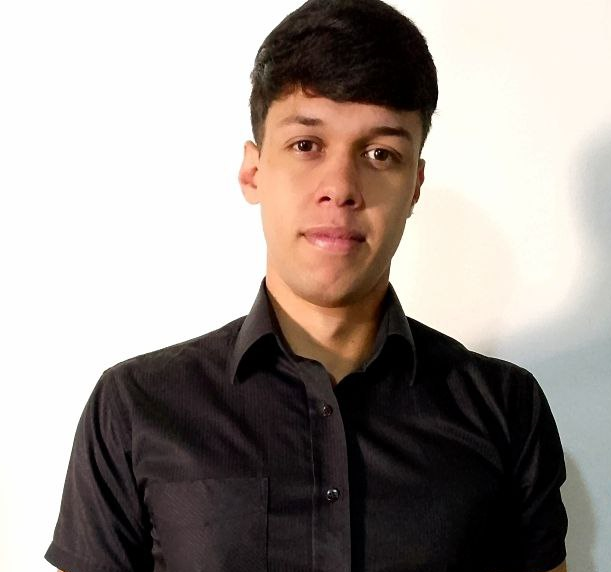
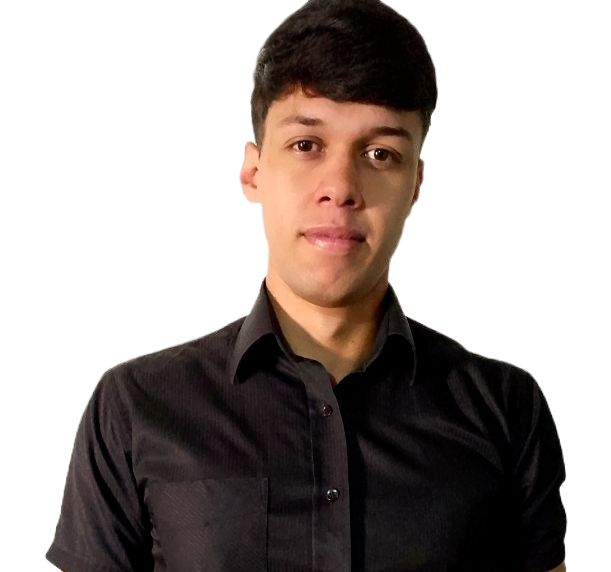
fin

diff --git a/styles.css b/styles.css
@@ -211,12 +211,27 @@ a:hover .tootip{
     background-color: var(--main-color);
     color: var(--bg-color);
 }
-.img-box img{
-width: 400px; 
-height: auto; 
-border-radius: 50%;
-box-shadow: 0 0 1rem var(--main-color);
+
+.img-box{
+    position: relative;
+    width: 32vw;
+    height: 32vw;
+    background: linear-gradient(var(--bg-color), var(--main-color));
+    border-radius: 50%;
+    border: .5rem solid var(--main-color);
+    box-shadow: 0 0 2rem var(--main-color);
+    display: flex;
+    justify-content: center;
+    overflow: hidden;
 }
+.img-box img{
+    position: absolute;
+    top: 3rem;
+    display: block;
+    width: 100%;
+    object-fit: cover;
+}
+
 .title{
     font-size: 4rem;
     text-align: center;
